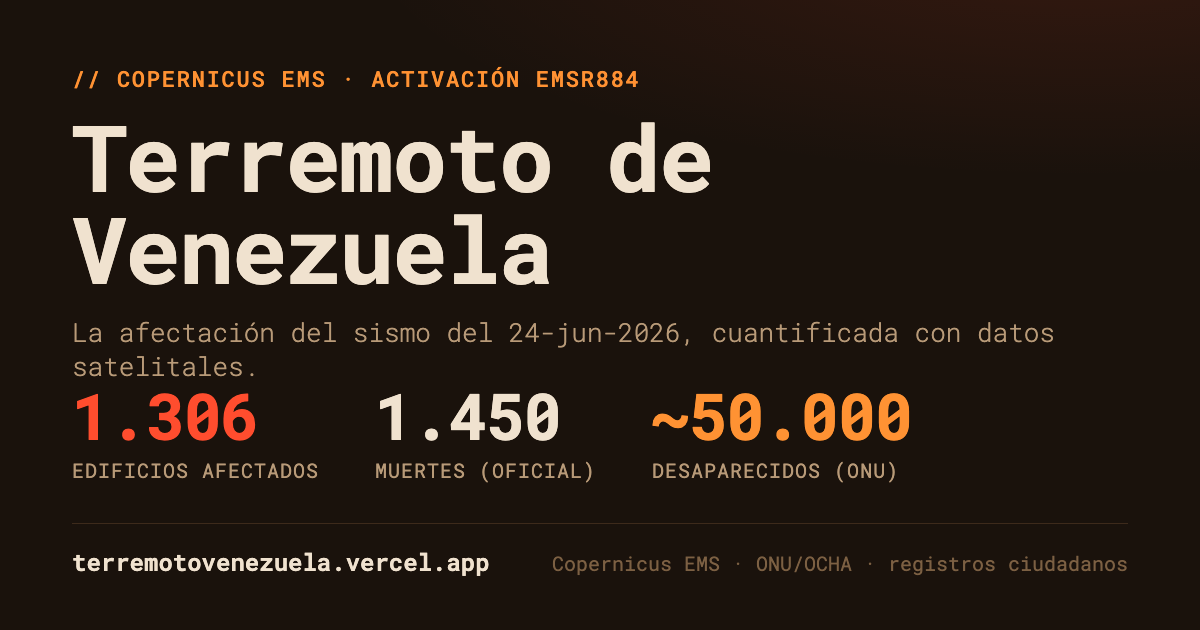
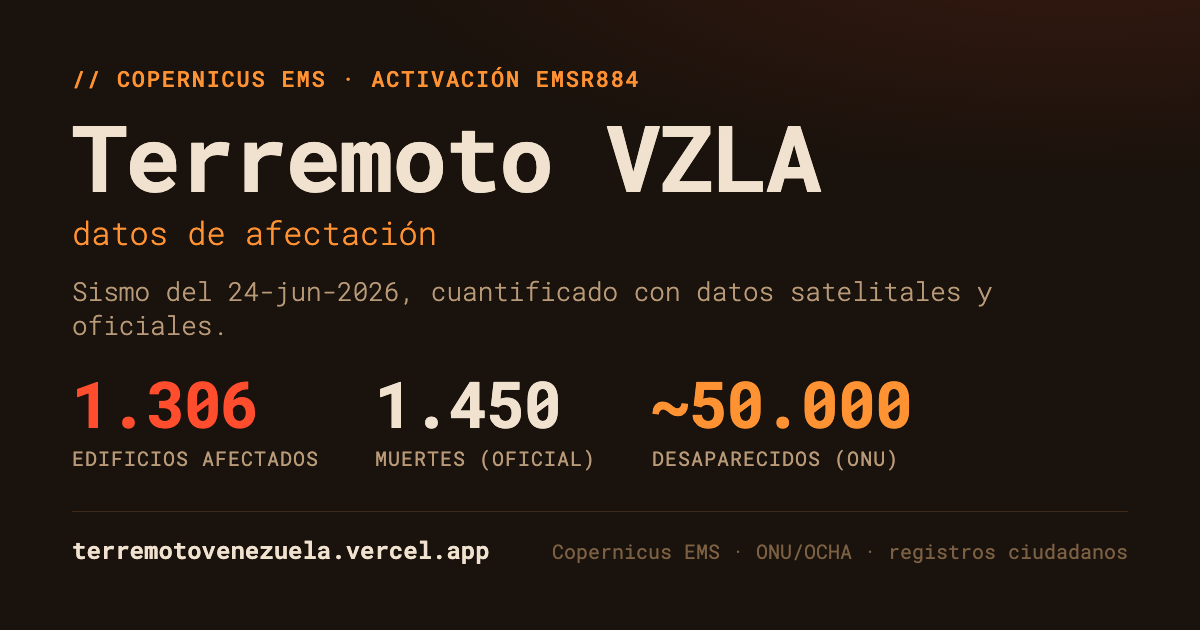
Rename a 'Terremoto VZLA — datos de afectación' + gráfica PAGER (USGS)
- Header, title, OG/twitter y og.png renombrados a 'Terremoto VZLA / datos de afectación'
- Pestaña Personas: añade estimación estadística de víctimas del USGS PAGER
  (data/pager.json, histograma de probabilidad por orden de magnitud, alerta roja)
  bajo la gráfica de muertes contadas; estilo rayado para distinguir estimación de recuento

diff --git a/index.html b/index.html
@@ -3,21 +3,21 @@
 <head>
   <meta charset="UTF-8" />
   <meta name="viewport" content="width=device-width, initial-scale=1.0" />
-  <title>Terremoto de Venezuela · 24-jun-2026 — Afectación según Copernicus</title>
-  <meta name="description" content="Cuantificación de la afectación del terremoto de Venezuela (24-jun-2026) a partir de los datos satelitales de Copernicus EMS (activación EMSR884)." />
+  <title>Terremoto VZLA — datos de afectación</title>
+  <meta name="description" content="Datos de afectación del terremoto de Venezuela (24-jun-2026): edificios dañados según Copernicus EMS, víctimas oficiales, estimaciones de la ONU y registros ciudadanos de desaparecidos." />
 
   <!-- Open Graph / WhatsApp / Twitter -->
   <meta property="og:type" content="website" />
   <meta property="og:url" content="https://terremotovenezuela.vercel.app/" />
-  <meta property="og:title" content="Terremoto de Venezuela · 24-jun-2026" />
-  <meta property="og:description" content="La afectación del sismo cuantificada con datos satelitales de Copernicus EMS, cifras de la ONU y registros ciudadanos de desaparecidos." />
+  <meta property="og:title" content="Terremoto VZLA — datos de afectación" />
+  <meta property="og:description" content="Edificios dañados según Copernicus EMS, víctimas oficiales, estimaciones de la ONU/USGS y registros ciudadanos de desaparecidos." />
   <meta property="og:image" content="https://terremotovenezuela.vercel.app/og.png" />
   <meta property="og:image:width" content="1200" />
   <meta property="og:image:height" content="630" />
   <meta property="og:locale" content="es_ES" />
   <meta name="twitter:card" content="summary_large_image" />
-  <meta name="twitter:title" content="Terremoto de Venezuela · 24-jun-2026" />
-  <meta name="twitter:description" content="La afectación del sismo cuantificada con datos satelitales, cifras de la ONU y registros ciudadanos." />
+  <meta name="twitter:title" content="Terremoto VZLA — datos de afectación" />
+  <meta name="twitter:description" content="Edificios dañados según Copernicus EMS, víctimas oficiales, estimaciones de la ONU/USGS y registros ciudadanos." />
   <meta name="twitter:image" content="https://terremotovenezuela.vercel.app/og.png" />
   <link rel="preconnect" href="https://fonts.googleapis.com" />
   <link rel="preconnect" href="https://fonts.gstatic.com" crossorigin />
@@ -28,7 +28,8 @@
 <body>
   <header class="hero">
     <p class="kicker">// Copernicus EMS · Activación EMSR884</p>
-    <h1>Terremoto de Venezuela</h1>
+    <h1>Terremoto VZLA</h1>
+    <p class="tagline">datos de afectación</p>
     <p class="updated-sub" id="updated-sub"></p>
     <nav class="tabs" role="tablist">
       <button class="tab is-active" data-tab="edificios" role="tab">Edificios</button>

diff --git a/app.js b/app.js
@@ -179,11 +179,34 @@ function renderPersonas(p) {
       }
     </section>
 
+    <div id="pager"></div>
+
     <footer class="foot">
       <p class="next">Fuentes: ${p.sources
         .map((s) => `<a href="${s.url}" target="_blank" rel="noopener">${s.name}</a>`)
         .join(" · ")}</p>
     </footer>`;
+}
+
+// Estimación estadística de víctimas del USGS (PAGER) — referencia, no recuento.
+function renderPager(g) {
+  const el = document.getElementById("pager");
+  if (!el) return;
+  const max = Math.max(...g.bins.map((b) => b.pct));
+  const bars = g.bins
+    .map(
+      (b) => `<div class="pg-bar">
+        <div class="pg-fill" style="height:${Math.round((b.pct / max) * 100)}%"><span>${b.pct}%</span></div>
+        <div class="pg-lab">${b.label}</div>
+      </div>`
+    )
+    .join("");
+  el.innerHTML = `<section class="pager">
+    <h2>// Estimación estadística de víctimas <span class="pg-alert">${g.source} · alerta ${g.alert}</span></h2>
+    <p class="pager-intro">Probabilidad por orden de magnitud de muertes (${g.event}). No es un recuento: es lo que el modelo del USGS espera dada la magnitud y la población expuesta.</p>
+    <div class="pg-bars">${bars}</div>
+    <p class="pg-note">${g.note} <a href="${g.url}" target="_blank" rel="noopener">Ver en USGS ↗</a></p>
+  </section>`;
 }
 
 // ---- Pestañas ----
@@ -392,7 +415,11 @@ function boundsOf(features) {
 
   // Pestaña Personas (carga en paralelo, no bloquea Edificios)
   loadJSON("data/personas.json")
-    .then((p) => { renderPersonas(p); setUpdated(p.meta.updated); })
+    .then((p) => {
+      renderPersonas(p);
+      setUpdated(p.meta.updated);
+      loadJSON("data/pager.json").then(renderPager).catch((e) => console.warn(e.message));
+    })
     .catch((e) => {
     document.getElementById("personas").innerHTML =
       `<p style="color:var(--destroyed)">No se pudieron cargar las cifras de personas: ${e.message}</p>`;

diff --git a/styles.css b/styles.css
@@ -46,6 +46,13 @@ body {
   margin: 0 0 18px;
   letter-spacing: -0.02em;
 }
+.tagline {
+  font-size: clamp(1rem, 2.5vw, 1.3rem);
+  font-weight: 300;
+  color: var(--damaged);
+  margin: 6px 0 0;
+  letter-spacing: 0.02em;
+}
 .updated-sub {
   font-size: 0.78rem;
   font-weight: 300;
@@ -276,6 +283,27 @@ body {
 }
 .tl-fill span { position: absolute; top: -20px; font-size: 0.72rem; font-weight: 600; color: var(--ink); }
 .tl-date { font-size: 0.66rem; color: var(--muted); margin-top: 8px; text-align: center; }
+
+/* Estimación PAGER (USGS) — referencia estadística, estilo distinto al recuento */
+.pager { margin: 40px 0 0; padding-top: 28px; border-top: 1px dashed var(--faint); }
+.pager h2 { font-size: 0.95rem; color: var(--possibly); font-weight: 600; margin: 0 0 6px; }
+.pg-alert { font-weight: 400; color: var(--destroyed); text-transform: uppercase; font-size: 0.72rem; letter-spacing: 0.05em; }
+.pager-intro { font-size: 0.8rem; font-weight: 300; color: var(--muted); margin: 0 0 22px; max-width: 620px; }
+.pg-bars { display: flex; align-items: flex-end; gap: 12px; height: 170px; }
+.pg-bar { flex: 1; display: flex; flex-direction: column; align-items: center; height: 100%; justify-content: flex-end; }
+.pg-fill {
+  width: 100%;
+  background: repeating-linear-gradient(45deg, var(--possibly), var(--possibly) 6px, #d9a93f 6px, #d9a93f 12px);
+  border-radius: 3px 3px 0 0;
+  position: relative;
+  min-height: 18px;
+  display: flex;
+  justify-content: center;
+}
+.pg-fill span { position: absolute; top: -19px; font-size: 0.72rem; font-weight: 600; color: var(--ink); }
+.pg-lab { font-size: 0.64rem; color: var(--muted); margin-top: 8px; text-align: center; }
+.pg-note { font-size: 0.72rem; font-weight: 300; color: var(--faint); margin-top: 16px; line-height: 1.45; }
+.pg-note a { color: var(--possibly); }
 
 /* Contexto discreto bajo la gráfica */
 .ctx {

diff --git a/scripts/og-template.html b/scripts/og-template.html
@@ -37,8 +37,9 @@
   <div class="grain"></div>
   <div>
     <div class="kicker">// Copernicus EMS · Activación EMSR884</div>
-    <h1>Terremoto de Venezuela</h1>
-    <div class="sub">La afectación del sismo del 24-jun-2026, cuantificada con datos satelitales.</div>
+    <h1>Terremoto VZLA</h1>
+    <div class="sub" style="color:#ff9233;font-size:32px;margin-top:8px;">datos de afectación</div>
+    <div class="sub">Sismo del 24-jun-2026, cuantificado con datos satelitales y oficiales.</div>
   </div>
 
   <div class="stats">
